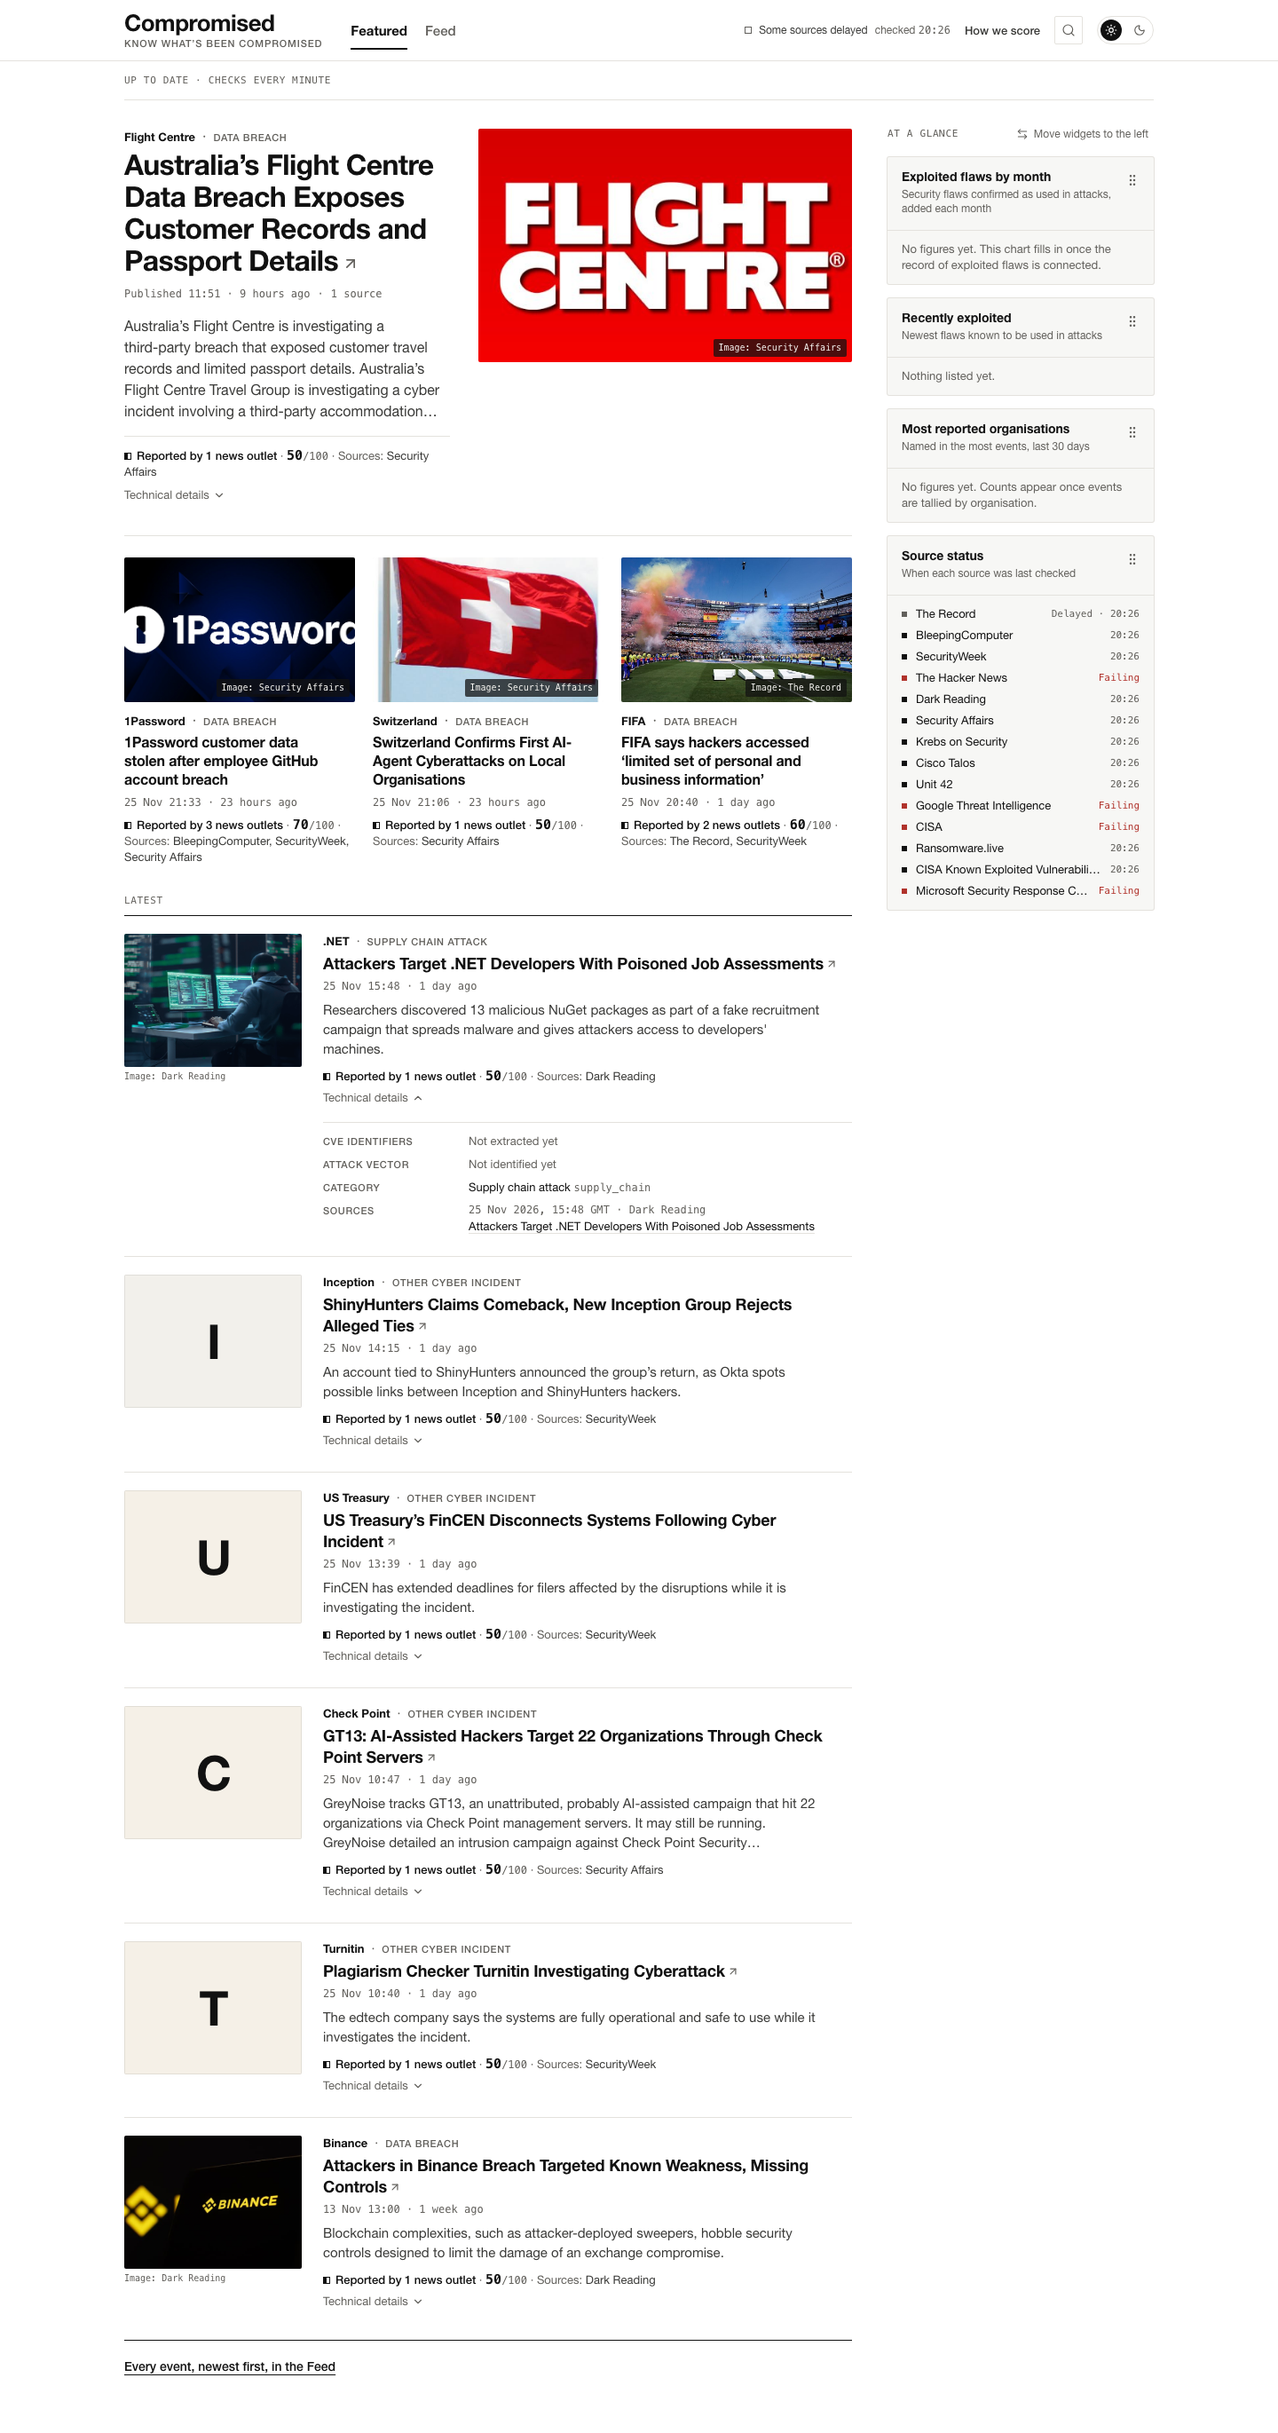
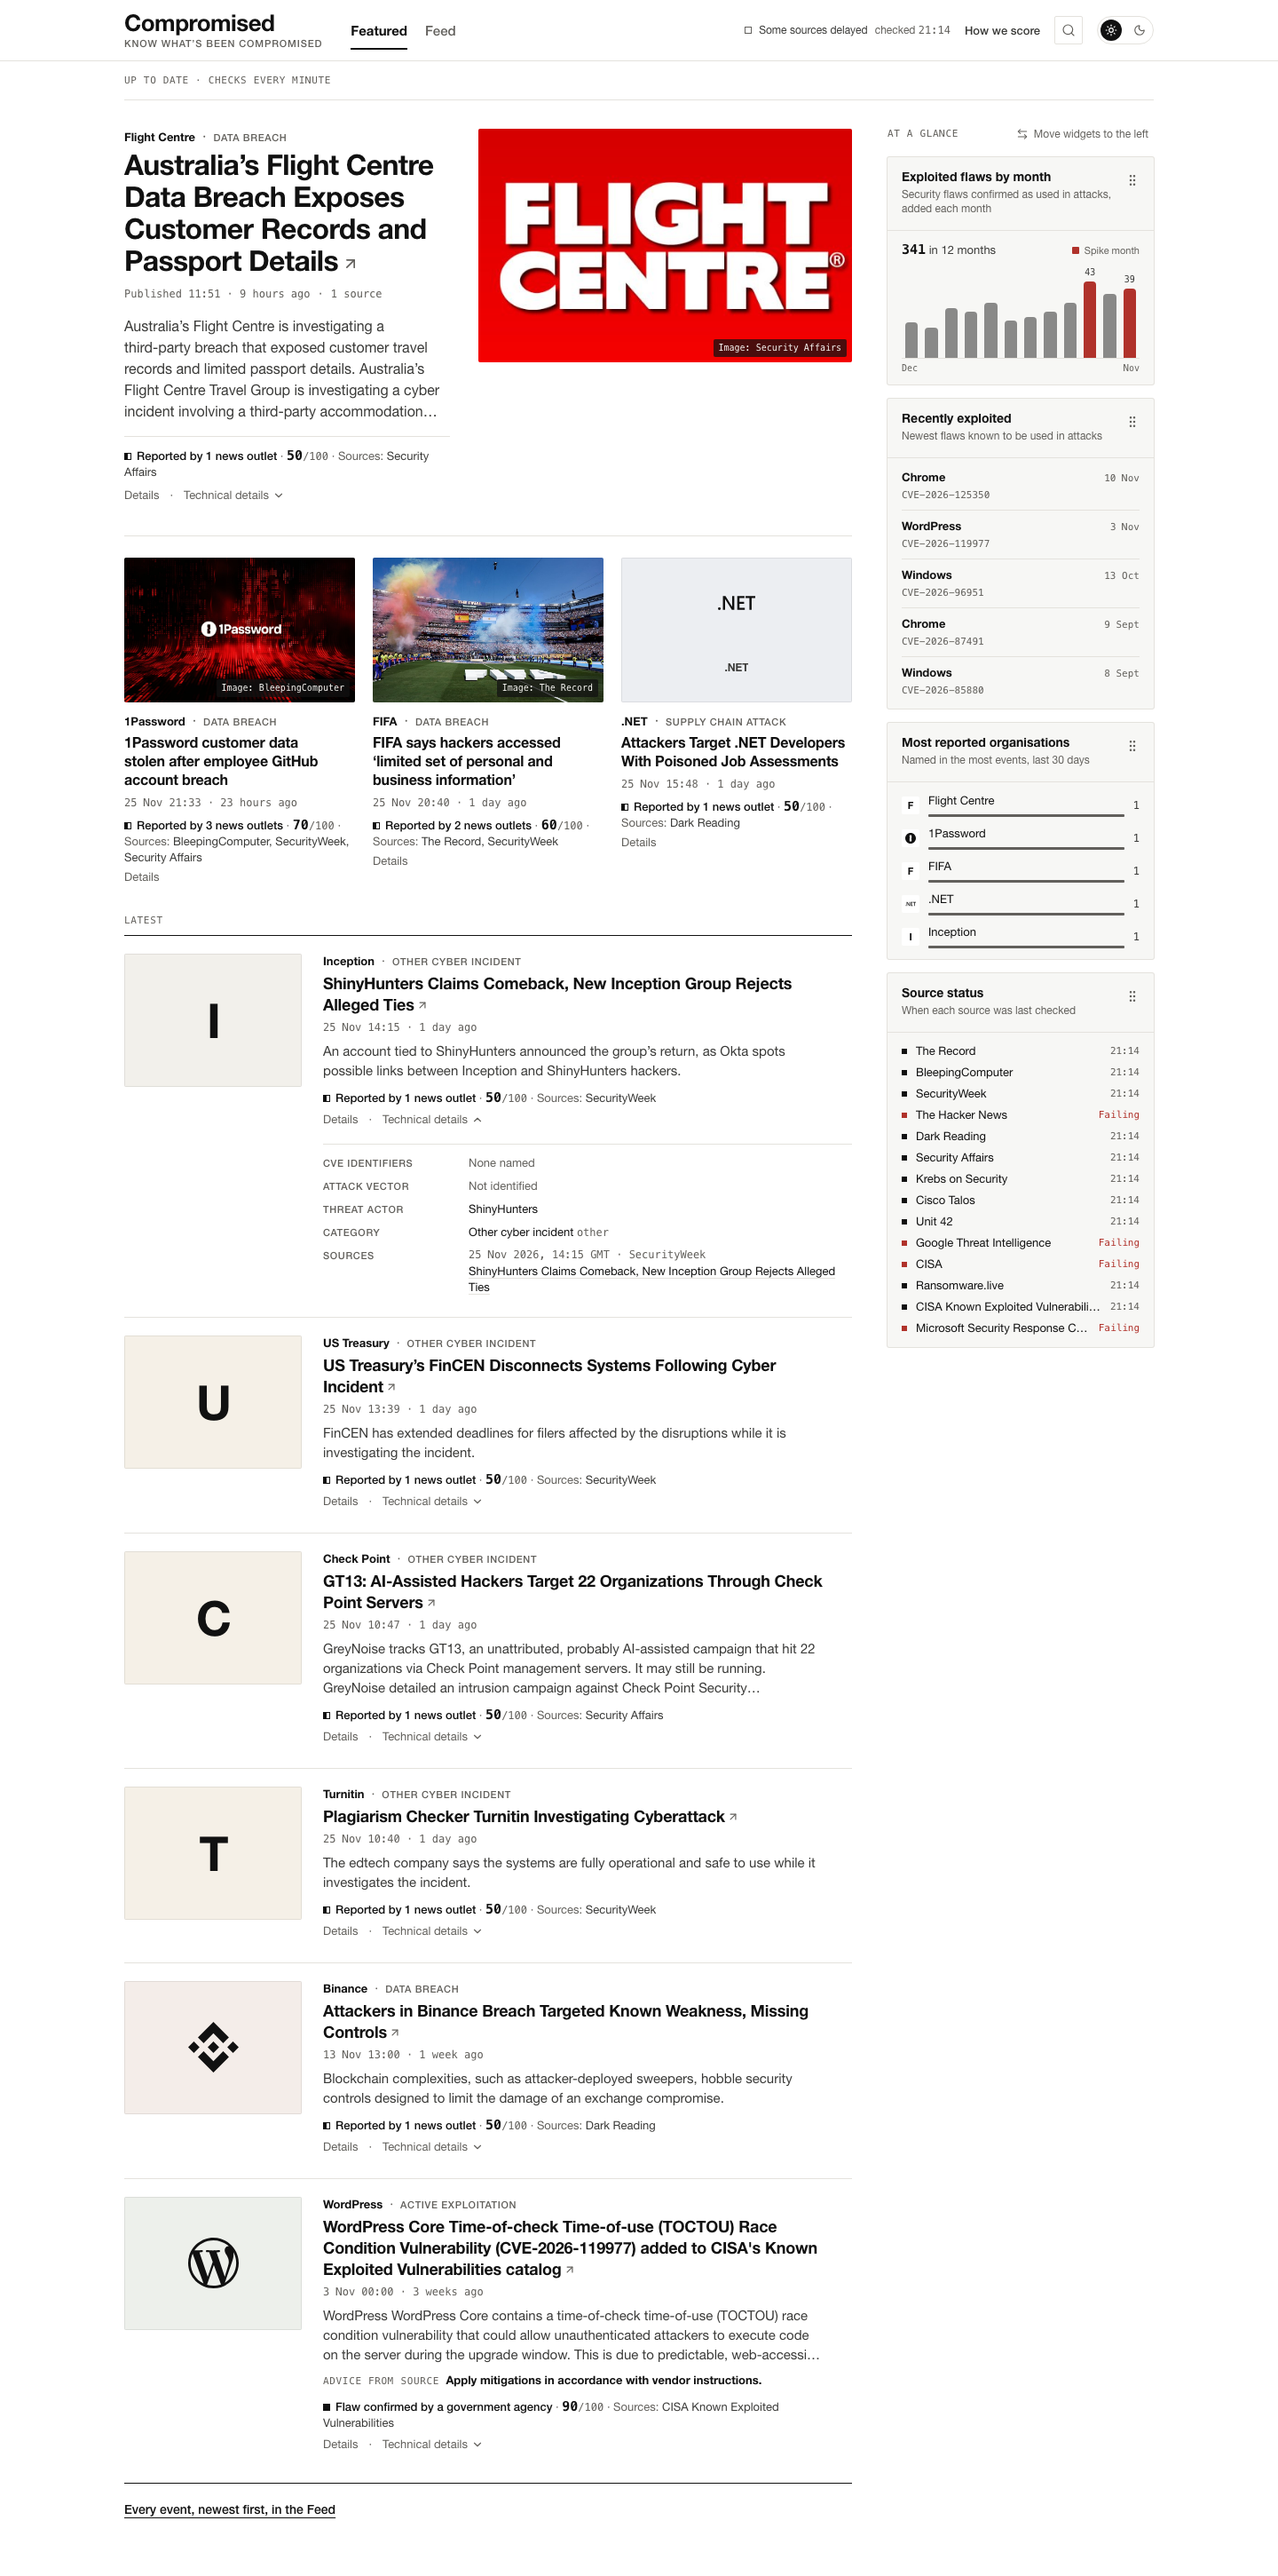
Regenerate the design checkpoint for the merged tickets
Featured, the Feed, search (/search?q=breach) and the 1Password event page, real and (for
Featured and the Feed) sample, in light, dark, phone and tablet, from a production build against
a fresh database filled by one fetch of every reachable feed on 2026-11-26. The capture script
takes SEARCH_PATH beside EVENT_PATH; the README describes the merged set and keeps the earlier
sections as history.

diff --git a/docs/design/checkpoint/README.md b/docs/design/checkpoint/README.md
@@ -1,4 +1,50 @@
-# Design checkpoint: Featured and Feed (ticket #16)
+# Design checkpoint: tickets #10, #11, #15 and #16 merged
+
+Screenshots taken on 2026-11-26 from a production build (`SAMPLE_PREVIEW=1`) of branch
+`merge-tickets-10-11-15-16`, as a reader in London sees them, with reduced motion. The two-tab
+layout of #16 with the other three tickets carried into it: **Featured** (`/`) and the **Feed**
+(`/feed`) with the real widget figures of #15 (also behind the phone tab bar's Charts), Trending
+switched on in the Feed and the real **search** page of #10 (reached from the header and the
+tab bar's Search), and one **event page** of #11 (`/events/4`, the 1Password event three outlets
+reported), linked from Featured's lead, cards and list and from the Feed's open Details panel.
+
+The real pages are a fresh database filled on that date by one fetch of every feed in the
+registry (Security Affairs from a capture made minutes earlier, so it was not fetched twice;
+The Hacker News and Google Threat Intelligence unreachable from this machine's DNS; CISA
+advisories 403; MSRC 400, issue #17), the CISA KEV catalog (1,805 entries), and two article-preview
+passes for Security Affairs and BleepingComputer (five pages each). The search images show
+`/search?q=breach`, which includes incidents kept out of every tab, each marked "Not shown in the
+feed". The sample-data routes (`/preview`, `/preview/feed`) show the same components with
+invented values under their banner; search and event pages have no sample route.
+
+| | Light | Dark | Phone light | Phone dark | Tablet light | Tablet dark |
+|---|---|---|---|---|---|---|
+| Featured, real (`/`) | [featured-light](featured-light.png) | [featured-dark](featured-dark.png) | [featured-phone-light](featured-phone-light.png) | [featured-phone-dark](featured-phone-dark.png) | [featured-tablet-light](featured-tablet-light.png) | [featured-tablet-dark](featured-tablet-dark.png) |
+| Feed, real (`/feed`) | [feed-light](feed-light.png) | [feed-dark](feed-dark.png) | [feed-phone-light](feed-phone-light.png) | [feed-phone-dark](feed-phone-dark.png) | [feed-tablet-light](feed-tablet-light.png) | [feed-tablet-dark](feed-tablet-dark.png) |
+| Search, real (`/search?q=breach`) | [search-light](search-light.png) | [search-dark](search-dark.png) | [search-phone-light](search-phone-light.png) | [search-phone-dark](search-phone-dark.png) | [search-tablet-light](search-tablet-light.png) | [search-tablet-dark](search-tablet-dark.png) |
+| Event page, real (`/events/4`) | [event-light](event-light.png) | [event-dark](event-dark.png) | [event-phone-light](event-phone-light.png) | [event-phone-dark](event-phone-dark.png) | [event-tablet-light](event-tablet-light.png) | [event-tablet-dark](event-tablet-dark.png) |
+| Featured, sample (`/preview`) | [sample-featured-light](sample-featured-light.png) | [sample-featured-dark](sample-featured-dark.png) | [sample-featured-phone-light](sample-featured-phone-light.png) | [sample-featured-phone-dark](sample-featured-phone-dark.png) | [sample-featured-tablet-light](sample-featured-tablet-light.png) | [sample-featured-tablet-dark](sample-featured-tablet-dark.png) |
+| Feed, sample (`/preview/feed`) | [sample-feed-light](sample-feed-light.png) | [sample-feed-dark](sample-feed-dark.png) | [sample-feed-phone-light](sample-feed-phone-light.png) | [sample-feed-phone-dark](sample-feed-phone-dark.png) | [sample-feed-tablet-light](sample-feed-tablet-light.png) | [sample-feed-tablet-dark](sample-feed-tablet-dark.png) |
+
+Desktop 1440px, phone 390px at 2x, tablet 820px, full page. In each Featured and Feed image the
+first story's technical details are open (in the Feed the open panel also shows "Open the event
+page"). To regenerate: run a web build with `SAMPLE_PREVIEW=1` against an API with real events,
+then
+
+    BASE_URL=http://localhost:3000 EVENT_PATH=/events/<id> SEARCH_PATH="/search?q=breach" \
+      node web/scripts/capture-checkpoint.mjs
+
+What the real pages show on this date: 10 events on the All tab, 3 with a publisher photo
+(Security Affairs' Flight Centre, BleepingComputer's 1Password, The Record's FIFA) and 7 tiles.
+Dark Reading's two All-tab stories (.NET, Binance) show tiles: its images are off by default in
+the registry since this merge, because its stock photos include the banned hooded-figure
+imagery. "Most reported organisations" lists Flight Centre, 1Password, FIFA, .NET and Inception;
+no country appears any more (Security Affairs' Switzerland story now has an unknown
+organisation). The widget images of #15 below (`widgets-*.png`) were not regenerated.
+
+## Earlier: Featured and Feed (ticket #16)
+
+The images this section names were replaced by the merged set above on 2026-11-26.
 
 Screenshots for the owner's sign-off, taken on 2026-11-26 from a production build
 (`SAMPLE_PREVIEW=1`), as a reader in London sees them, with reduced motion so nothing is caught
@@ -47,8 +93,8 @@ existing `PUBLISHER_IMAGES_OFF_FOR=darkreading` switch removes it.
 | Featured | unchanged look | Lead, three cards, up to six further stories, the widget rail. The category tabs moved to the Feed; a link leads to the Feed for every event. |
 | Sources named once | both tabs | The trust line names the sources; the separate "+N sources" line is gone. Stories with no trust (commentary) name their publishers once instead. |
 
-Search and Trending belong to #10: Trending in the Feed and the tab bar's Search lead to a quiet
-"coming soon" (`/search` is a placeholder page #10 replaces).
+Search and Trending belong to #10: Trending in the Feed and the tab bar's Search led to a quiet
+"coming soon" (`/search` was a placeholder page). Both were replaced by #10's at the merge above.
 
 ## Measured
 
@@ -295,7 +341,8 @@ their value above the column, so colour is never the only signal.
 
 ## Event page (ticket #11), 2026-11-26
 
-`event-light.png`, `event-dark.png` and `event-phone-light.png`: the page for the real 1Password
+(These images were replaced by the merged set at the top on 2026-11-26.) `event-light.png`,
+`event-dark.png` and `event-phone-light.png`: the page for the real 1Password
 event, which three outlets reported (BleepingComputer, Security Affairs, The Hacker News). A
 production build against a database seeded from every real RSS capture in
 `api/tests/fixtures/real` (no live fetch, no AI summaries, so the summary is the earliest
